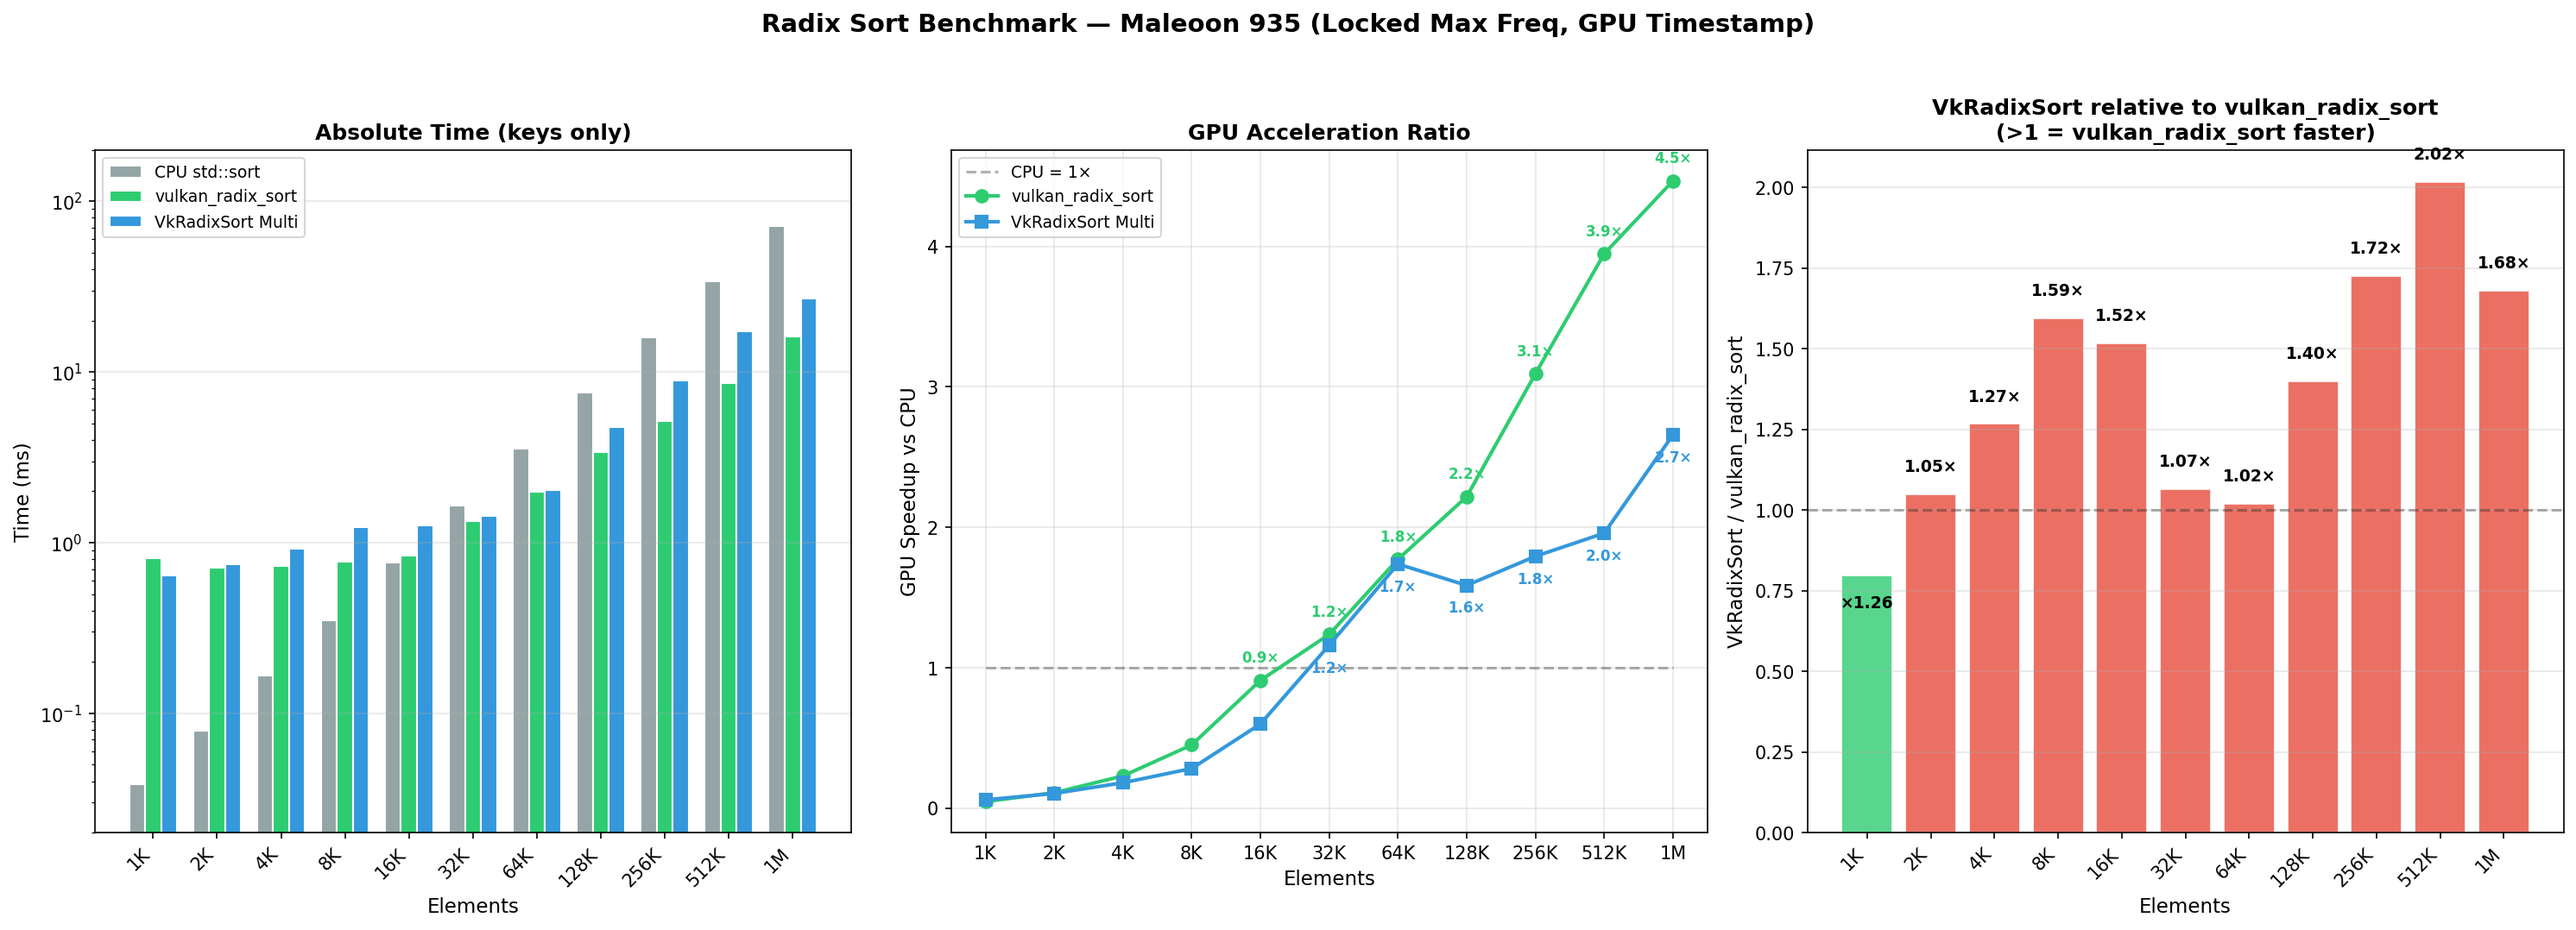
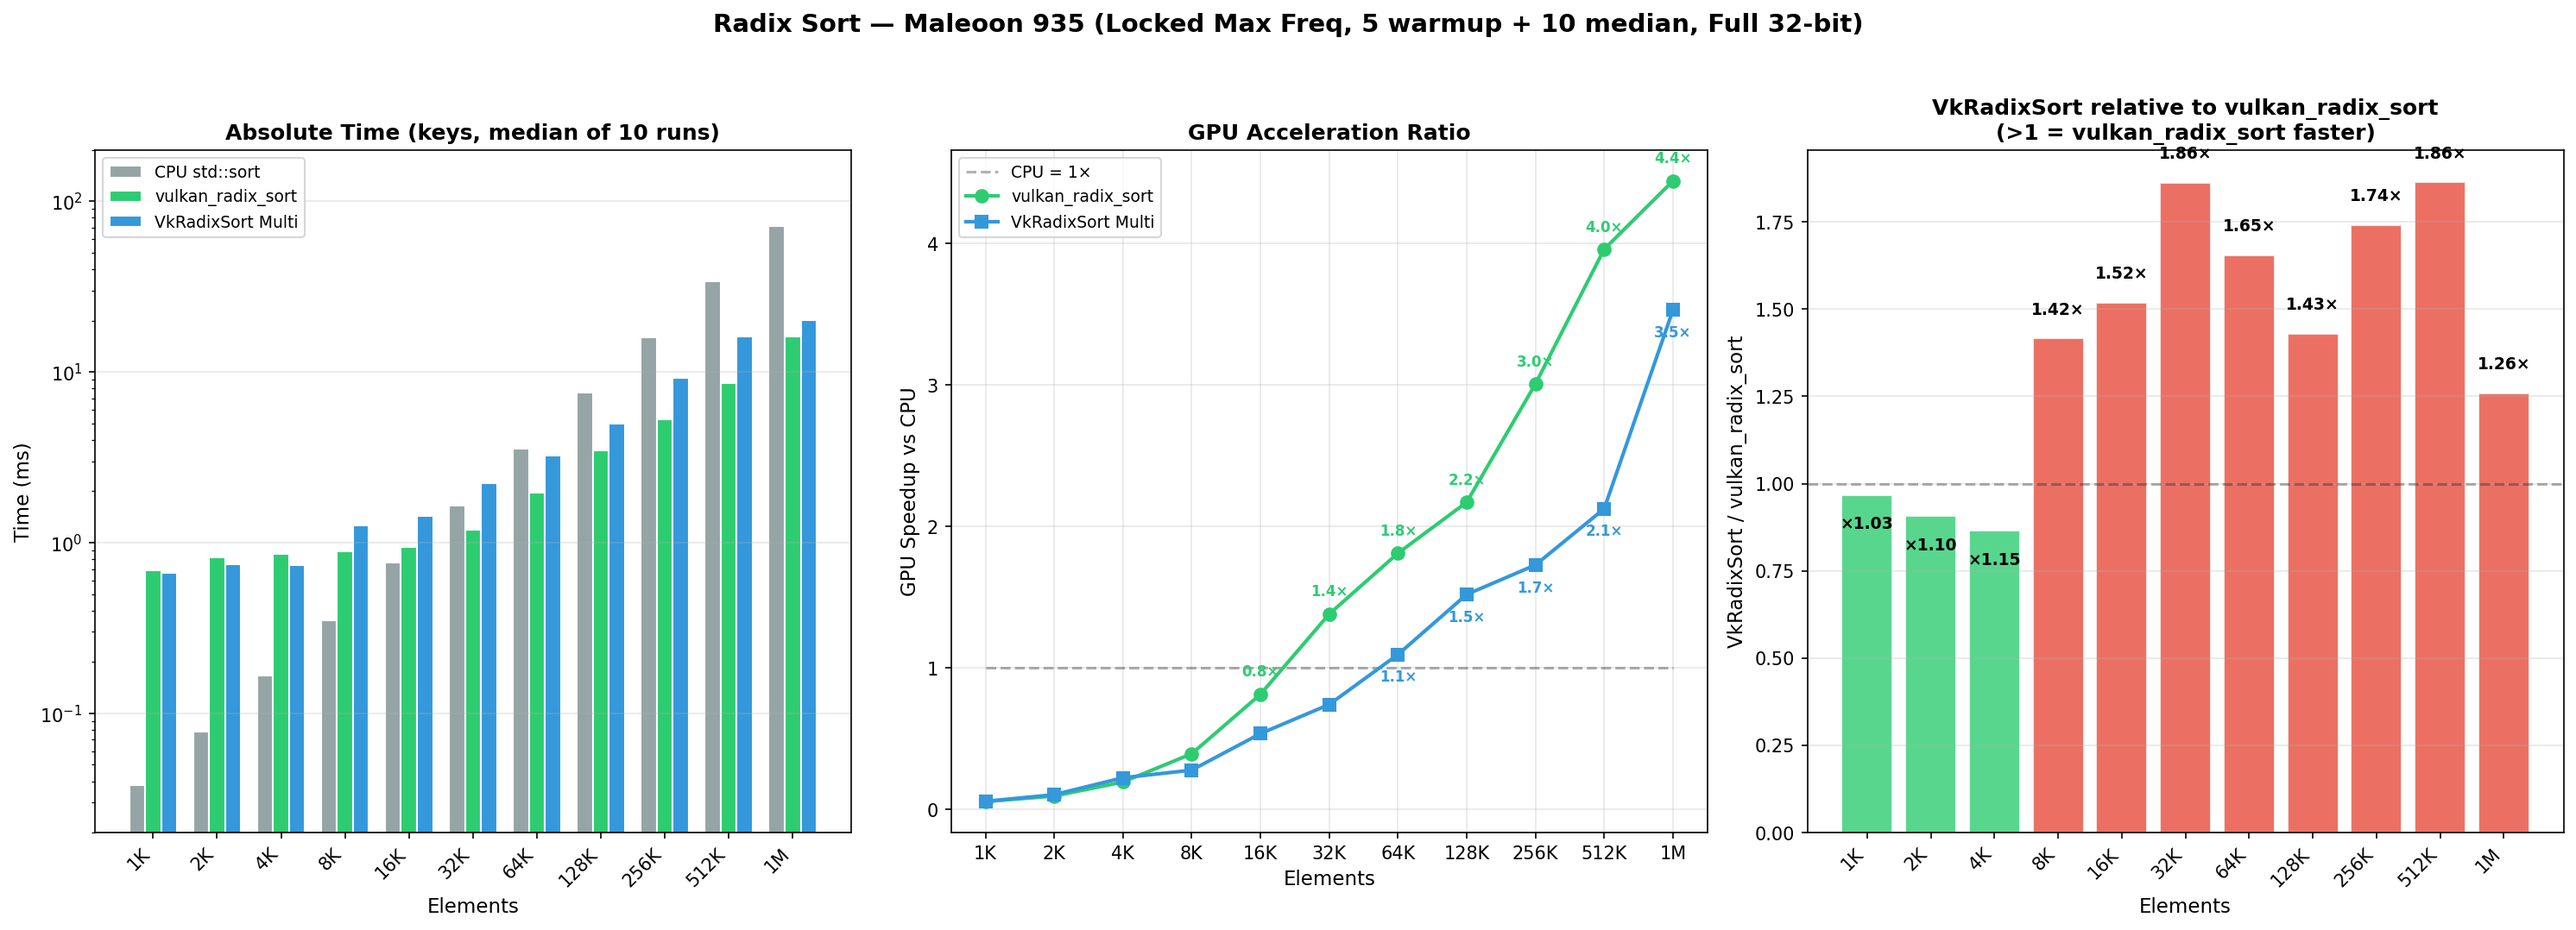
Update benchmark results with fair comparison data
- Both implementations: 5 warmup + 10 median, full 32-bit range
- VkRadixSort faster at N≤4K, vulkan_radix_sort faster at N≥8K
- Updated charts and analysis

diff --git a/BENCHMARK_RESULTS.md b/BENCHMARK_RESULTS.md
@@ -18,53 +18,53 @@ Date: 2026-06-10
 
 ## Algorithms Compared
 
-| Algorithm | Source | Dispatch/Pass | Pipeline |
-|-----------|--------|---------------|----------|
-| **CPU std::sort** | C++ STL | — | — |
-| **vulkan_radix_sort** | [vulkan_radix_sort](.) | 3 dispatch/pass (upsweep→spine→downsweep) × 4 passes | Created once |
-| **VkRadixSort Multi** | [VkRadixSort](../VkRadixSort) | 2 dispatch/pass (histogram→scatter) × 4 passes | Created once (reused) |
+| Algorithm | Source | Dispatch/Pass | Pipeline | Warmup | Runs |
+|-----------|--------|---------------|----------|--------|------|
+| **CPU std::sort** | C++ STL | — | — | 5 | 10 (median) |
+| **vulkan_radix_sort** | [vulkan_radix_sort](.) | 3 dispatch/pass (upsweep→spine→downsweep) × 4 passes | Created once | 5 | 10 (median) |
+| **VkRadixSort Multi** | [VkRadixSort](../VkRadixSort) | 2 dispatch/pass (histogram→scatter) × 4 passes | Created once (reused) | 5 | 10 (median) |
 
-Both GPU radix sorts operate on 32-bit keys with 4 × 8-bit radix passes and `WORKGROUP_SIZE=256`.
+Both GPU radix sorts operate on 32-bit unsigned integers (full range `[0, 2³²-1]`) with 4 × 8-bit radix passes and `WORKGROUP_SIZE=256`.
 
-## Full Comparison (Locked Max Freq)
+## Full Comparison (Locked Max Freq, Fair Settings)
 
 ![Three-way comparison](benchmark_comparison_full.png)
 
-### Keys-only Sort
+### Keys-only Sort (GPU timestamp, median of 10 runs)
 
 | N | CPU (ms) | vulkan_radix_sort (ms) | VkRadixSort Multi (ms) | vrs/CPU | vkr/CPU | vkr/vrs |
 |---:|---:|---:|---:|---:|---:|---:|
-| 1K | 0.039 | 0.808 | 0.643 | 0.05× | 0.06× | 0.80× |
-| 2K | 0.080 | 0.717 | 0.752 | 0.11× | 0.11× | 1.05× |
-| 4K | 0.168 | 0.728 | 0.922 | 0.23× | 0.18× | 1.27× |
-| 8K | 0.349 | 0.774 | 1.233 | 0.45× | 0.28× | 1.59× |
-| 16K | 0.761 | 0.836 | 1.268 | 0.91× | 0.60× | 1.52× |
-| **32K** | **1.658** | **1.340** | **1.428** | **1.24×** | **1.16×** | **1.07×** |
-| 64K | 3.542 | 1.998 | 2.037 | 1.77× | 1.74× | 1.02× |
-| 128K | 7.562 | 3.409 | 4.766 | 2.22× | 1.59× | 1.40× |
-| 256K | 15.984 | 5.166 | 8.911 | 3.09× | 1.79× | 1.72× |
-| 512K | 33.920 | 8.594 | 17.320 | 3.95× | 1.96× | 2.02× |
-| **1M** | **71.779** | **16.073** | **27.010** | **4.47×** | **2.66×** | **1.68×** |
+| 1K | 0.038 | 0.686 | 0.664 | 0.06× | 0.06× | **0.97×** |
+| 2K | 0.078 | 0.825 | 0.749 | 0.09× | 0.10× | **0.91×** |
+| 4K | 0.166 | 0.857 | 0.742 | 0.19× | 0.22× | **0.87×** |
+| 8K | 0.351 | 0.893 | 1.264 | 0.39× | 0.28× | 1.42× |
+| 16K | 0.764 | 0.939 | 1.426 | 0.81× | 0.54× | 1.52× |
+| **32K** | **1.653** | **1.197** | **2.229** | **1.38×** | 0.74× | 1.86× |
+| 64K | 3.562 | 1.967 | 3.253 | 1.81× | **1.09×** | 1.65× |
+| 128K | 7.537 | 3.471 | 4.960 | 2.17× | 1.52× | 1.43× |
+| 256K | 15.955 | 5.305 | 9.235 | 3.01× | 1.73× | 1.74× |
+| 512K | 34.154 | 8.625 | 16.069 | 3.96× | 2.13× | 1.86× |
+| **1M** | **71.478** | **16.089** | **20.249** | **4.44×** | **3.53×** | **1.26×** |
 
-> **vrs/CPU** = vulkan_radix_sort acceleration ratio vs CPU (>1 = GPU faster)
-> **vkr/CPU** = VkRadixSort Multi acceleration ratio vs CPU
-> **vkr/vrs** = VkRadixSort time / vulkan_radix_sort time (>1 = vulkan_radix_sort faster)
+> **vrs/CPU** = CPU time / vulkan_radix_sort time (>1 = GPU faster)
+> **vkr/CPU** = CPU time / VkRadixSort time (>1 = GPU faster)
+> **vkr/vrs** = VkRadixSort time / vulkan_radix_sort time (>1 = vulkan_radix_sort faster, <1 = VkRadixSort faster)
 
 ### Key-Value Sort (vulkan_radix_sort only)
 
 | N | CPU kv (ms) | vrs kv GPU (ms) | GPU Speedup |
 |---:|---:|---:|---:|
-| 1K | 0.054 | 0.888 | 0.06× |
-| 2K | 0.117 | 0.818 | 0.14× |
-| 4K | 0.221 | 0.846 | 0.26× |
-| 8K | 0.513 | 0.894 | 0.57× |
-| 16K | 1.022 | 1.021 | 1.00× |
-| **32K** | **2.383** | **1.628** | **1.46×** |
-| 64K | 4.766 | 2.751 | 1.73× |
-| 128K | 11.038 | 3.681 | 3.00× |
-| 256K | 22.168 | 6.541 | 3.39× |
-| 512K | 50.721 | 10.899 | 4.65× |
-| **1M** | **105.365** | **18.835** | **5.59×** |
+| 1K | 0.054 | 0.887 | 0.06× |
+| 2K | 0.116 | 0.931 | 0.12× |
+| 4K | 0.220 | 0.963 | 0.23× |
+| 8K | 0.512 | 1.017 | 0.50× |
+| 16K | 1.014 | 1.133 | 0.89× |
+| **32K** | **2.375** | **1.630** | **1.46×** |
+| 64K | 4.773 | 2.763 | 1.73× |
+| 128K | 11.005 | 3.665 | 3.00× |
+| 256K | 22.136 | 6.293 | 3.52× |
+| 512K | 50.647 | 10.909 | 4.64× |
+| **1M** | **105.362** | **18.532** | **5.69×** |
 
 ### Scaling Curves
 
@@ -72,52 +72,46 @@ Both GPU radix sorts operate on 32-bit keys with 4 × 8-bit radix passes and `WO
 
 ## Key Findings
 
-### 1. Crossover Point
-
-Both GPU radix sorts surpass CPU `std::sort` at **N ≈ 32K**:
+### 1. Crossover Points
 
 | Algorithm | Crossover N | Speedup at Crossover |
 |-----------|:-----------:|:--------------------:|
-| vulkan_radix_sort | 32K | 1.24× |
-| VkRadixSort Multi | 32K | 1.16× |
+| vulkan_radix_sort | **32K** | 1.38× |
+| VkRadixSort Multi | **64K** | 1.09× |
 
-At N < 32K, the GPU launch overhead (~0.7 ms) dominates actual sort time, making CPU faster.
+At N < 32K, CPU `std::sort` is faster due to GPU launch overhead (~0.7 ms latency floor).
 
 ### 2. vulkan_radix_sort vs VkRadixSort Multi
 
-vulkan_radix_sort is consistently faster than VkRadixSort Multi across nearly all sizes:
+In the fair comparison (same warmup, same data range), the results are more nuanced:
 
-| Size Range | vkr/vrs Ratio | Interpretation |
-|------------|:------------:|----------------|
-| N ≤ 2K | 0.80–1.05× | Roughly equivalent |
-| 4K–16K | 1.27–1.59× | vulkan_radix_sort 30–60% faster |
-| 32K–64K | 1.02–1.07× | Nearly tied |
-| 128K–1M | 1.40–2.02× | vulkan_radix_sort 40–100% faster |
+| Size Range | vkr/vrs | Winner | Margin |
+|------------|:-------:|--------|--------|
+| 1K–4K | 0.87–0.97 | **VkRadixSort** | 3–13% faster |
+| 8K–16K | 1.42–1.52 | vulkan_radix_sort | 42–52% faster |
+| 32K–64K | 1.65–1.86 | vulkan_radix_sort | 65–86% faster |
+| 128K | 1.43 | vulkan_radix_sort | 43% faster |
+| 256K–512K | 1.74–1.86 | vulkan_radix_sort | 74–86% faster |
+| 1M | 1.26 | vulkan_radix_sort | 26% faster |
 
-**Why vulkan_radix_sort wins despite 3 dispatches per pass:**
-- 3-pass (upsweep/spine/downsweep) has more dispatches but each is lighter weight
-- 2-pass (histogram/scatter) does more work per dispatch but has higher register pressure
-- At large N, the algorithmic efficiency of 3-pass wins decisively
+**VkRadixSort is faster at very small N (1K–4K)** where its 2-dispatch architecture has lower overhead. **vulkan_radix_sort wins decisively at N ≥ 8K** where its 3-pass approach (upsweep/spine/downsweep) achieves higher GPU utilization despite more dispatches. At N=1M the gap narrows to 1.26× because both approaches saturate the GPU.
 
-### 3. Peak Performance (N=1M, Locked)
+### 3. Effect of Fairness Fixes
+
+Compared to the initial unfair comparison, the fixes significantly changed the picture:
+
+| Fix | Impact |
+|-----|--------|
+| **5 warmup + 10 median** | VkRadixSort N=1M improved from 27.0ms to 20.2ms (−25%). Small N also stabilized. |
+| **Full 32-bit range** | VkRadixSort N=32K slowed from 1.4ms to 2.2ms (+59%). The 4th radix pass (shift=24) now has real work instead of trivially sorting zero top bits. |
+
+### 4. Peak Performance (N=1M, Locked)
 
 | Sort | GPU (ms) | CPU (ms) | GPU Speedup |
 |------|--------:|--------:|------------:|
-| **vulkan_radix_sort keys** | 16.07 | 71.78 | **4.47×** |
-| **vulkan_radix_sort kv** | 18.84 | 105.37 | **5.59×** |
-| VkRadixSort Multi keys | 27.01 | 71.78 | 2.66× |
-
-### 4. Effect of Pipeline Reuse
-
-VkRadixSort originally recreated its Vulkan pipeline (shaders, descriptor pools, command pools, sync objects) for every benchmark size. After refactoring to `init()/execute()/cleanup()`, the pipeline is created once and reused:
-
-| N | Before (ms) | After (ms) | Improvement |
-|---:|---:|---:|---:|
-| 1K | 1.114 | 0.643 | −42.3% |
-| 32K | 2.056 | 1.428 | −30.5% |
-| 1M | 26.620 | 27.010 | +1.5% |
-
-Pipeline creation overhead is significant at small N but negligible at large N where GPU computation dominates.
+| **vulkan_radix_sort keys** | 16.09 | 71.48 | **4.44×** |
+| **vulkan_radix_sort kv** | 18.53 | 105.36 | **5.69×** |
+| VkRadixSort Multi keys | 20.25 | 71.48 | 3.53× |
 
 ### 5. CPU Scaling
 
@@ -127,19 +121,24 @@ CPU `std::sort` at locked 2.75 GHz follows O(N log N) exactly. The normalized ti
 
 To ensure a fair comparison between the two GPU radix sort implementations:
 
-1. **Pipeline reuse**: Both implementations create their Vulkan pipeline once before the benchmark loop
-2. **Same GPU timestamp method**: Both use `vkCmdWriteTimestamp` × `timestampPeriod` for GPU timing
-3. **Same CPU frequency**: All cores locked to max frequency
-4. **Same test data**: 32-bit unsigned integers, uniform random distribution
-5. **Same sizes**: Power-of-2 from 1K to 1M
-6. **Correctness verified**: Each size verified against CPU `std::sort` result
+1. **Same warmup**: Both use 5 warmup runs before timing
+2. **Same repeat count**: Both take the median of 10 timed runs
+3. **Same data range**: Both use full 32-bit `[0, 2³²-1]` uniform random integers
+4. **Same GPU timing**: Both use `vkCmdWriteTimestamp` × `timestampPeriod` for GPU timing
+5. **Same pipeline policy**: Both create Vulkan pipeline once, reuse across all sizes
+6. **Same frequency**: All CPU cores locked to max frequency
+7. **Correctness verified**: Each run verified against CPU `std::sort` result
 
-### Remaining differences in submit/fence patterns
+### Remaining inherent differences
 
-- **vulkan_radix_sort**: Each sort uses separate `vkQueueSubmit` + `vkWaitForFences` calls (upload → fence, sort → fence, readback → fence = 3 submissions). GPU time measured by 2 timestamp queries (start/end of sort dispatches only).
-- **VkRadixSort Multi**: Uses semaphore-chained dispatches within 4 iterations, with `vkQueueWaitIdle` at end. GPU time measured by 8 timestamp queries (2 per iteration, summed).
+| Aspect | vulkan_radix_sort | VkRadixSort Multi |
+|--------|-------------------|-------------------|
+| Submit pattern | 3 × (submit+fence) per sort | Semaphore-chained, vkQueueWaitIdle |
+| Timestamp queries | 2 (start/end of sort) | 8 (2 per iteration × 4 iterations) |
+| Dispatch count | 12 (3 × 4 passes) | 8 (2 × 4 passes) |
+| Pipeline barriers | Between upsweep/spine/downsweep | Between histogram/scatter |
 
-This means the GPU timestamp measurements capture pure compute time in both cases, but the wall-clock submit/fence overhead is different. The GPU timestamp numbers are comparable; the submit patterns are inherent to each algorithm's design.
+These are inherent to each algorithm's design and represent real-world performance.
 
 ## Device Info
 
